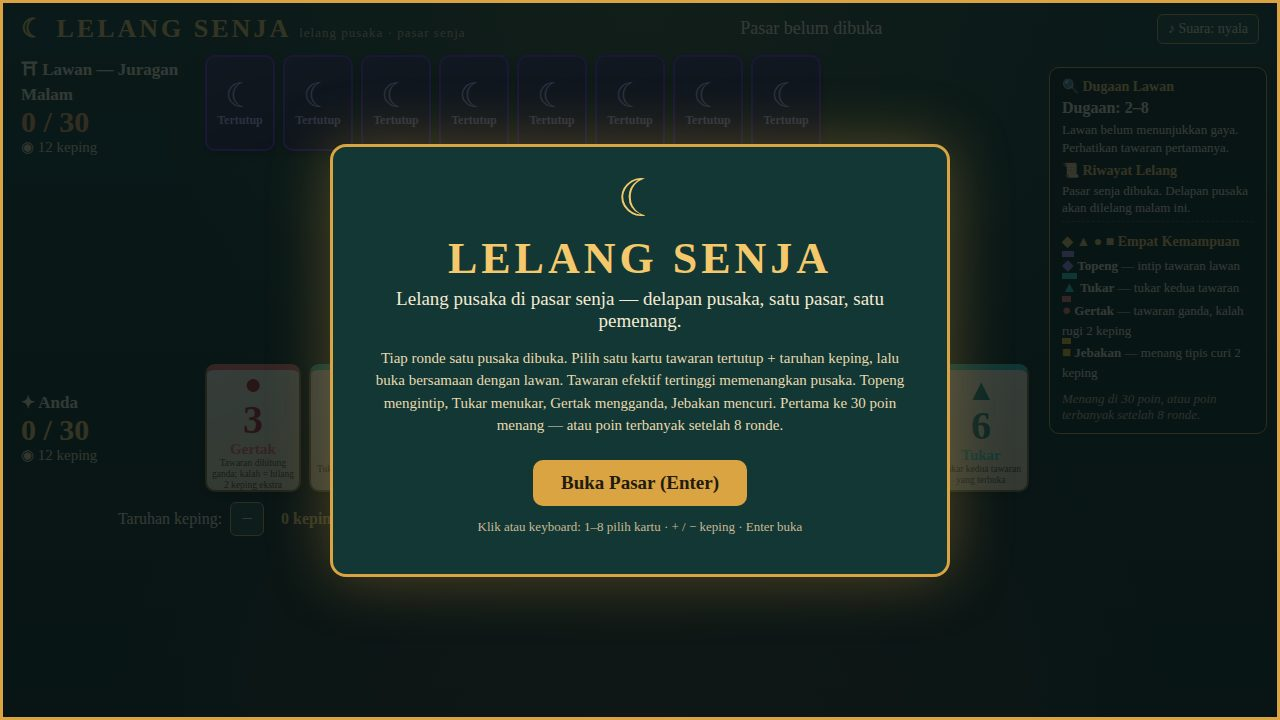
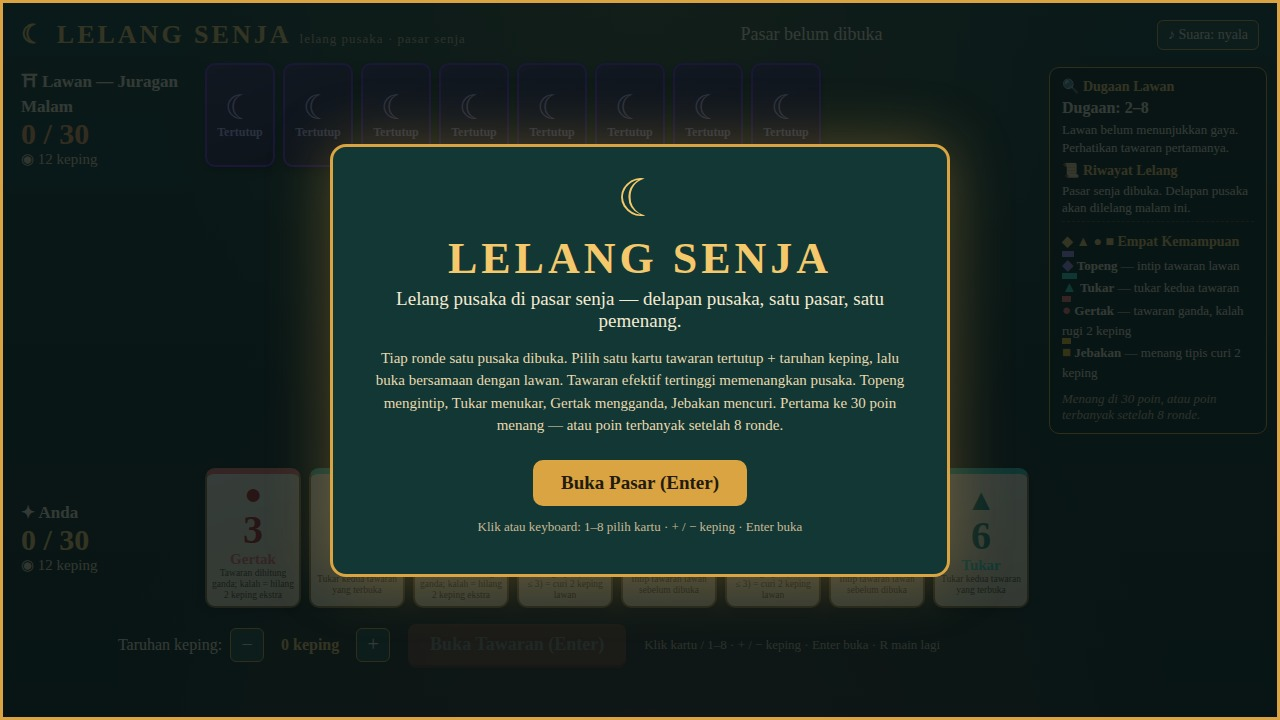
Fix Red Team findings F-01..F-05: paid Topeng peek, no duplicate cards in hand, gold win flourish, filled table, AI stake-matched threshold
- F-01: peeking with Topeng then switching spends that Topeng from the hand (peekedThisRound flag in chooseBidCard; cleared on reveal/new round)
- F-02: chosen bid hidden from hand during pick (player + rival), retake 1-play.jpg
- F-03: vertical distribution fills the 720px table (centre-row 220px, taller cards, more padding)
- F-04: gold burst + star row on win overlay; README no longer claims flip/slide animations
- F-05: AI stake decided first, pick threshold uses actual stake + Gertak-aware effective values; misleading prefer comment removed (blind Tukar preference measured worse and dropped)
- Loss shot moved to seed 5 (careless pilot truly loses 9-30 under the fixed AI); glyph Lukisan Kapal fixed to clean diamond

diff --git a/game/css/table.css b/game/css/table.css
@@ -30,14 +30,14 @@ button:disabled { opacity: 0.45; cursor: default; }
   display: flex;
   justify-content: space-between;
   align-items: center;
-  padding: 10px 18px 4px;
+  padding: 16px 18px 6px;
 }
 .brand { font-size: 26px; letter-spacing: 3px; color: #f5c96b; font-weight: bold; }
 .brand-sub { font-size: 13px; letter-spacing: 1px; color: #c9b896; font-weight: normal; }
 .round-label { font-size: 18px; color: #f5ead2; }
 #mute-btn { background: #1d4a45; color: #f5ead2; border: 1px solid #d9a441; border-radius: 6px; padding: 6px 10px; font-size: 14px; }
 
-.side-row { display: flex; align-items: center; gap: 14px; padding: 2px 18px; }
+.side-row { display: flex; align-items: center; gap: 14px; padding: 6px 18px; }
 .side-info { width: 170px; flex: none; }
 .side-name { font-size: 17px; font-weight: bold; }
 .side-score { font-size: 30px; font-weight: bold; color: #f5c96b; line-height: 1.1; }
@@ -48,14 +48,14 @@ button:disabled { opacity: 0.45; cursor: default; }
 .rival-hand { justify-content: center; }
 /* Rival backs are smaller than player cards so all eight fit clear of the
    side panel at 1280px wide. */
-.rival-hand .card { width: 70px; height: 96px; }
+.rival-hand .card { width: 70px; height: 104px; }
 .rival-hand .card-glyph { font-size: 26px; }
 .rival-hand .card-name { font-size: 12px; }
 .player-hand { justify-content: flex-start; }
 
 .card {
   width: 96px;
-  height: 128px;
+  height: 140px;
   border-radius: 10px;
   background: linear-gradient(160deg, #fdf6e3, #f3e2b8);
   color: #231a10;
@@ -98,8 +98,8 @@ button:disabled { opacity: 0.45; cursor: default; }
   justify-content: center;
   align-items: center;
   gap: 26px;
-  padding: 6px 0 2px;
-  min-height: 150px;
+  padding: 10px 0 4px;
+  min-height: 220px;
 }
 .bid-slot { width: 120px; min-height: 140px; display: flex; flex-direction: column; align-items: center; gap: 4px; }
 .stake-badge { font-size: 14px; background: #d9a441; color: #231a10; border-radius: 10px; padding: 2px 8px; font-weight: bold; }
@@ -108,15 +108,15 @@ button:disabled { opacity: 0.45; cursor: default; }
 .heirloom-card .card-name { font-size: 16px; }
 .heirloom-card .card-value { font-size: 26px; color: #b45309; }
 
-.reveal-result { text-align: center; font-size: 18px; min-height: 26px; color: #f5ead2; }
+.reveal-result { text-align: center; font-size: 18px; min-height: 30px; color: #f5ead2; }
 .reveal-result.player { color: #f5c96b; font-weight: bold; }
 .reveal-result.rival { color: #f0a35e; font-weight: bold; }
 .reveal-result.peek { color: #c4b5fd; font-style: italic; }
-.next-wrap { text-align: center; min-height: 30px; }
+.next-wrap { text-align: center; min-height: 34px; }
 #next-btn { background: #d9a441; color: #231a10; border: none; border-radius: 8px; padding: 6px 18px; font-size: 16px; font-weight: bold; }
 
-#player-row { padding-top: 0; }
-#controls { display: flex; align-items: center; justify-content: center; gap: 18px; padding: 4px 240px 0 18px; }
+#player-row { padding-top: 10px; }
+#controls { display: flex; align-items: center; justify-content: center; gap: 18px; padding: 10px 240px 16px 18px; }
 .stake-box { display: flex; align-items: center; gap: 8px; font-size: 16px; }
 .stake-box button { width: 34px; height: 34px; font-size: 20px; background: #1d4a45; color: #f5ead2; border: 1px solid #d9a441; border-radius: 6px; }
 #stake-value { min-width: 76px; text-align: center; font-weight: bold; color: #f5c96b; }
@@ -158,7 +158,26 @@ button:disabled { opacity: 0.45; cursor: default; }
   z-index: 10;
 }
 .overlay-card { text-align: center; max-width: 620px; padding: 26px 34px; background: #123734; border: 3px solid #d9a441; border-radius: 16px; box-shadow: 0 0 60px rgba(217, 164, 65, 0.35); }
-.overlay-card.gold { border-color: #f5c96b; box-shadow: 0 0 80px rgba(245, 201, 107, 0.55); }
+.overlay-card.gold {
+  border-color: #f5c96b;
+  box-shadow: 0 0 80px rgba(245, 201, 107, 0.55);
+  /* Gold burst behind the win card: the win must read as a flourish in a
+     still screenshot, not just as another text card with a brighter border. */
+  background:
+    radial-gradient(ellipse at 50% 0%, rgba(245, 201, 107, 0.38), transparent 60%),
+    radial-gradient(ellipse at 50% 115%, rgba(245, 201, 107, 0.25), transparent 55%),
+    #123734;
+}
+.overlay-card.gold::before {
+  content: '✦ ✦ ✦ ✦ ✦';
+  display: block;
+  font-size: 26px;
+  letter-spacing: 10px;
+  color: #f5c96b;
+  line-height: 1;
+  margin-bottom: 4px;
+}
+.overlay-card.gold .overlay-moon { font-size: 64px; }
 .overlay-moon { font-size: 52px; color: #f5c96b; line-height: 1; }
 .overlay-card h1 { font-size: 44px; letter-spacing: 4px; color: #f5c96b; margin: 8px 0 4px; }
 .overlay-sub { font-size: 19px; margin: 4px 0; }

diff --git a/game/src/ai.js b/game/src/ai.js
@@ -20,26 +20,40 @@ export function chooseRivalBid(game) {
   const want = heirloom.points + (behind ? 2 : 0) - (ahead ? 1 : 0);
   const jitter = game.rng() < 0.35 ? 1 : 0;
 
-  const sorted = rival.hand.slice().sort((a, b) => a.value - b.value);
-  // Prefer a Tukar or Gertak card when the heirloom is rich: abilities win
-  // rounds a bare number cannot, and the player should see them used.
-  let picked = sorted[sorted.length - 1];
-  for (const card of sorted) {
-    if (card.value + 2 >= want + jitter) {
-      picked = card;
-      break;
-    }
-  }
-
-  const handIndex = rival.hand.indexOf(picked);
-  chooseBidCard(game, 'rival', handIndex);
-
+  // The stake is decided FIRST: the pick threshold below must test the
+  // same number the rival actually spends. Testing value + 2 while only
+  // staking 1 (or 0) made the rival underbid its own plan on every
+  // heirloom below 7 points.
   let stake = 0;
   if (heirloom.points >= 7) stake = 2;
   else if (heirloom.points >= 5) stake = 1;
   if (behind && heirloom.points >= 5) stake += 1;
   if (rival.coins <= 2) stake = 0;
-  setStake(game, 'rival', Math.min(stake, rival.coins));
+  stake = Math.min(stake, rival.coins);
+
+  // A Gertak card counts double, so its effective strength — not its bare
+  // value — is what the threshold must test.
+  const effective = (card) => (card.ability === 'gertak' ? (card.value + stake) * 2 : card.value + stake);
+
+  const sorted = rival.hand.slice().sort((a, b) => a.value - b.value);
+  let picked = sorted[sorted.length - 1];
+  for (const card of sorted) {
+    if (effective(card) >= want + jitter) {
+      picked = card;
+      break;
+    }
+  }
+
+  // No blind Tukar preference here: a swap hands the rival the player's
+  // unseen bid, so preferring Tukar on rich heirlooms backfired — against
+  // a weak player it swapped a winning card for a tiny one. The
+  // Gertak-aware threshold above is the ability play the rival can judge
+  // from its own hand alone.
+
+  const handIndex = rival.hand.indexOf(picked);
+  chooseBidCard(game, 'rival', handIndex);
+
+  setStake(game, 'rival', stake);
 }
 
 /**

diff --git a/game/src/render.js b/game/src/render.js
@@ -104,6 +104,11 @@ function renderHands(game) {
   const playerHand = byId('player-hand');
   playerHand.replaceChildren();
   game.player.hand.forEach((card, index) => {
+    // The chosen bid already sits in the centre slot during pick — showing
+    // it in the hand too would put the same card on the table twice.
+    // Skipping one element here never shifts the 1–8 keyboard mapping,
+    // because the click handler still closes over the full hand index.
+    if (game.phase === 'pick' && game.player.chosen === card) return;
     const selected = game.player.chosen === card;
     const element = buildBidCardElement(card, {
       selected,
@@ -114,7 +119,17 @@ function renderHands(game) {
 
   const rivalHand = byId('rival-hand');
   rivalHand.replaceChildren();
-  game.rival.hand.forEach(() => rivalHand.appendChild(buildCardBackElement()));
+  // The rival's chosen bid is already represented in the centre slot
+  // (face-up while peeked, face-down otherwise), so one back fewer keeps
+  // the rival's visible card count honest during pick.
+  let rivalBidHidden = false;
+  game.rival.hand.forEach((card) => {
+    if (game.phase === 'pick' && game.rival.chosen === card && !rivalBidHidden) {
+      rivalBidHidden = true;
+      return;
+    }
+    rivalHand.appendChild(buildCardBackElement());
+  });
 }
 
 /** Centre of the table: heirloom, the two revealed bids, and the pot. */
@@ -158,7 +173,7 @@ function renderCentre(game) {
       : 'Seri ' + r.playerEff + '–' + r.rivalEff + ' — pusaka tidak berpindah.';
     result.className = 'reveal-result ' + (r.winner || 'draw');
   } else if (peeked) {
-    result.textContent = 'Topeng mengintip: tawaran lawan ' + game.rival.chosen.value + ' (' + ABILITIES[game.rival.chosen.ability].name + ').';
+    result.textContent = 'Topeng mengintip: tawaran lawan ' + game.rival.chosen.value + ' (' + ABILITIES[game.rival.chosen.ability].name + '). Ganti kartu = Topeng ini terbuang.';
     result.className = 'reveal-result peek';
   } else {
     result.textContent = game.phase === 'pick' ? 'Pilih satu kartu tawaran, atur keping, lalu buka bersamaan.' : '';

diff --git a/game/src/state.js b/game/src/state.js
@@ -27,6 +27,9 @@ export function createGame(seed) {
     history: [],
     winner: null,
     lastResult: null,
+    // True once the player has peeked with a Topeng this round. Switching
+    // away after a peek spends that Topeng — the peek is never free.
+    peekedThisRound: false,
   };
   // Deal round one eagerly so the title screen already shows a full table
   // behind its overlay — the cover shot never needs an empty table.
@@ -61,6 +64,7 @@ export function startRound(game) {
   game.rival.chosen = null;
   game.rival.stake = 0;
   game.lastResult = null;
+  game.peekedThisRound = false;
   game.phase = 'pick';
   game.log.push('Ronde ' + game.round + ': ' + game.heirloom.name + ' (' + game.heirloom.points + ' poin) naik ke meja.');
   return true;
@@ -83,7 +87,17 @@ export function chooseBidCard(game, side, handIndex) {
   const person = game[side];
   if (game.phase !== 'pick') return false;
   if (handIndex < 0 || handIndex >= person.hand.length) return false;
-  person.chosen = person.hand[handIndex];
+  const next = person.hand[handIndex];
+  if (side === 'player' && game.peekedThisRound && person.chosen && person.chosen.ability === 'topeng' && next.ability !== 'topeng') {
+    // The peek was paid for with the Topeng that spied: switching to a
+    // different card after peeking spends that Topeng from the hand, so
+    // the exact rival bid can never be read for free round after round.
+    const at = person.hand.indexOf(person.chosen);
+    if (at !== -1) person.hand.splice(at, 1);
+    game.peekedThisRound = false;
+  }
+  person.chosen = next;
+  if (side === 'player' && next.ability === 'topeng') game.peekedThisRound = true;
   return true;
 }
 
@@ -104,4 +118,7 @@ export function discardPlayedCards(game) {
     const at = person.hand.indexOf(person.chosen);
     if (at !== -1) person.hand.splice(at, 1);
   }
+  // A reveal ends the round, so a peek flag must never survive into the
+  // next one — startRound resets it too, this is the belt to its braces.
+  game.peekedThisRound = false;
 }

diff --git a/game/src/deck.js b/game/src/deck.js
@@ -22,7 +22,7 @@ export const HEIRLOOMS = [
   { name: 'Wayang Kulit', points: 6, glyph: '▲', colour: '#2dd4bf' },
   { name: 'Piring Porselen', points: 4, glyph: '◍', colour: '#93c5fd' },
   { name: 'Cincin Zamrud', points: 8, glyph: '⬡', colour: '#34d399' },
-  { name: 'Lukisan Kapal', points: 5, glyph: '▤', colour: '#fda4af' },
+  { name: 'Lukisan Kapal', points: 5, glyph: '❖', colour: '#fda4af' }, // ❖ renders as a clean diamond in the screenshot font; ▤ showed as a broken box.
   { name: 'Tasbih Manik', points: 3, glyph: '●', colour: '#f87171' },
   { name: 'Gong Perunggu', points: 7, glyph: '◎', colour: '#d97706' },
   { name: 'Selendang Sutra', points: 4, glyph: '✧', colour: '#f0abfc' },

diff --git a/README.md b/README.md
@@ -34,6 +34,10 @@ likely bid range from their past bids and visible purse, and the round log
 keeps every past bid on the table. Bluff, manage your purse, and time your
 abilities — a Topeng into a Tukar wins rounds a raw number never could.
 
+Peeking is not free: once a Topeng has shown you the rival's bid, switching
+to a different card spends that Topeng from your hand — so the peek is a
+real decision, not a free look every round.
+
 ## How to play
 
 - **Mouse:** click a Bid card in your hand, adjust your coin stake with
@@ -50,14 +54,16 @@ Serve `game/` with any static server (for example `node serve.ts`) and open
 Play it with mouse or keyboard — every screen (title, table, win, loss) is
 reachable by playing real rounds, nothing is staged for the screenshots.
 
-Deterministic screenshots: `game/index.html?shot=title|play|win|loss&seed=1`
-plays real rounds from a fresh world with an autopilot and sets
-`window.__shotReady` when the frame is ready (see `shots.json`).
+Deterministic screenshots: `game/index.html?shot=title|play|win&seed=1`
+(and `?shot=loss&seed=5` — the careless pilot only truly loses from that
+seed once the rival bids its real stakes) plays real rounds from a fresh
+world with an autopilot and sets `window.__shotReady` when the frame is
+ready (see `shots.json`).
 
 ## Layout
 
 - `game/index.html` — page shell
-- `game/css/table.css` — sunset-market table, card flip/slide animations
+- `game/css/table.css` — sunset-market table, hover lift + selected highlight + gold win glow
 - `game/src/state.js` — round state, scores, coin purses
 - `game/src/deck.js` — heirloom deck + bid deck, seeded shuffle
 - `game/src/bids.js` — the four abilities + simultaneous-reveal resolution
